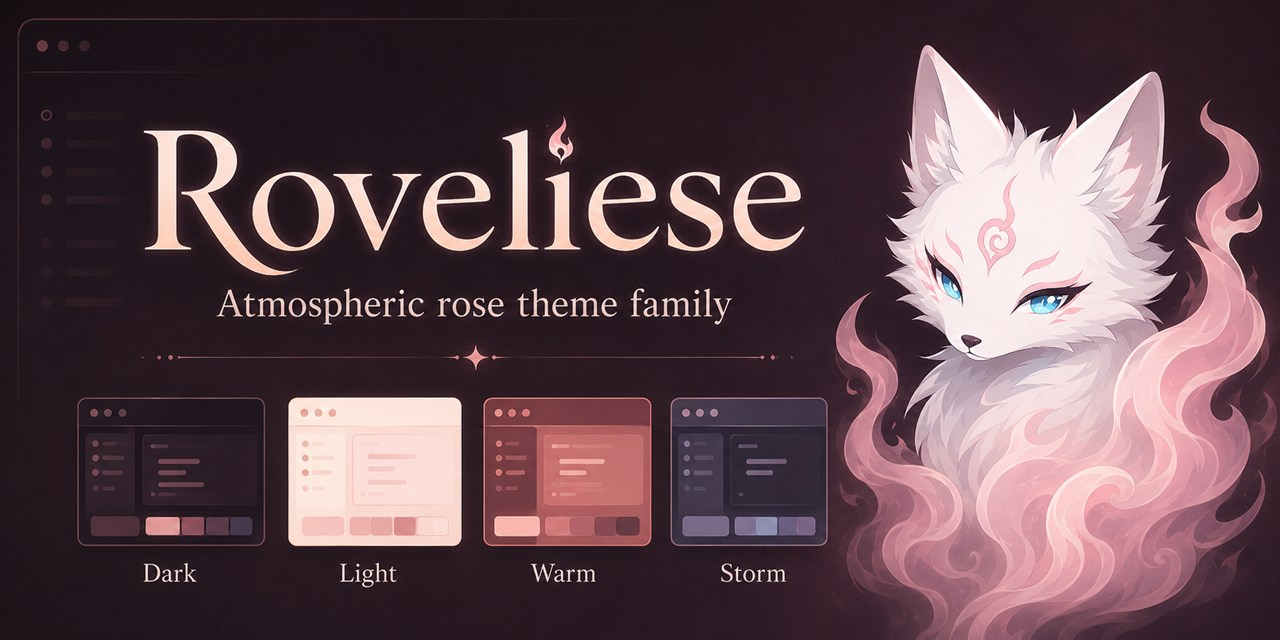
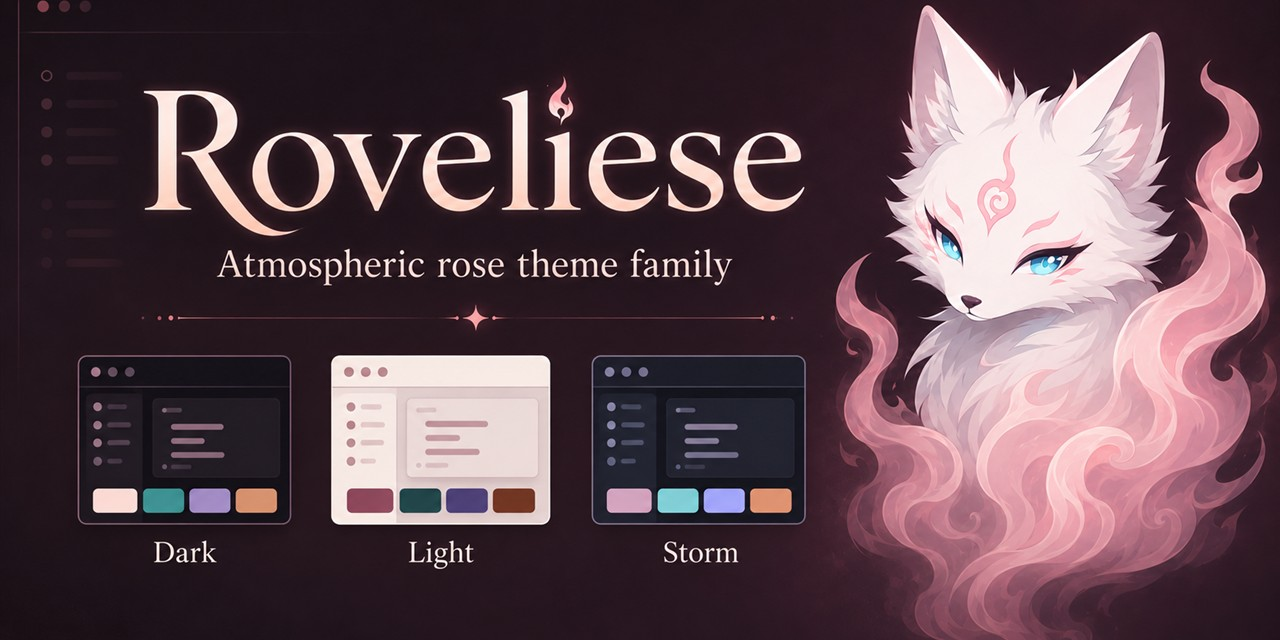
Refresh organization profile and theme assets

diff --git a/profile/README.md b/profile/README.md
@@ -1,21 +1,42 @@
 <h3 align="center">
-    <img src="https://raw.githubusercontent.com/roveliese/.github/main/assets/icon.png" width="100" alt="Logo"/><br/>
-    <br/>
-    Roveliese
-    <br/>
+  <img src="https://raw.githubusercontent.com/roveliese/.github/main/assets/icon.png" width="100" alt="Roveliese kitsune logo"/><br/>
+  <br/>
+  Roveliese for <a href="https://code.visualstudio.com">VS Code</a>
 </h3>
 
 <p align="center">
-  Atmospheric rose theme — deep mocha base, translucent rose accents, cool cyan contrast.
+  A quiet, atmospheric theme family with rose warmth, cool cyan contrast, and a focused editor.
 </p>
 
 <p align="center">
-  Four variants — <strong>Dark</strong>, <strong>Light</strong>, <strong>Warm</strong>, <strong>Storm</strong>
+  <a href="https://marketplace.visualstudio.com/items?itemName=Roveliese.roveliese-vsc">Install from Visual Studio Marketplace</a>
+  &nbsp;&middot;&nbsp;
+  <a href="https://open-vsx.org/extension/Roveliese/roveliese-vsc">Install from Open VSX</a>
+  &nbsp;&middot;&nbsp;
+  <a href="https://github.com/roveliese/vscode">Source and issues</a>
 </p>
 
 <p align="center">
-  <img src="https://raw.githubusercontent.com/roveliese/.github/main/assets/palette-demo.svg" alt="Roveliese palette"/>
+  Three variants: <strong>Dark</strong>, <strong>Light</strong>, and <strong>Storm</strong>.
 </p>
+
+<p align="center">
+  <img src="https://raw.githubusercontent.com/roveliese/.github/main/assets/palette-demo.svg" alt="Roveliese Light, Dark, and Storm palettes"/>
+</p>
+
+## Choose your theme
+
+After installation, open the Command Palette (`Ctrl+Shift+P`) and run **Roveliese: Select Theme**. It presents all three variants in one picker.
+
+- **Dark** — deep mocha surfaces for low-light work.
+- **Light** — warm off-white paper, not a simple inversion.
+- **Storm** — cool, precise contrast without becoming generic blue.
+
+Run **Roveliese: Configure Theme** to open the extension settings. You can tune accent color, workbench mode, navigation contrast, typography, bracket coloring, and indent guides without reloading VS Code.
+
+## Project
+
+The [VS Code extension repository](https://github.com/roveliese/vscode) contains previews, the full customization reference, release downloads, and issue tracking. Roveliese also includes an optional **Roveliese Product Icons** icon theme.
 
 <p align="center">
   <img src="https://raw.githubusercontent.com/roveliese/.github/main/assets/footer.png" width="600" alt=""/>
